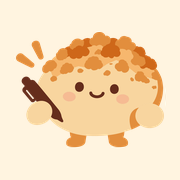
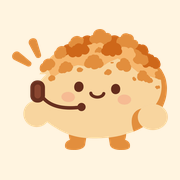
소보루CS 웹 로고·파비콘·공유 이미지도 헤드셋 소보루로
소보루CS 웹(biz·cs) 머리글, 로그인, 소개, 바닥글의 캐릭터와 파비콘, 홈 화면 아이콘,
공유 미리보기 이미지를 앱 아이콘과 같은 그림으로 바꿨다. 캐시 번호도 올렸다.

Claude-Session: https://claude.ai/code/session_012ig9tjXYdBwvSx3A68Tx61

diff --git a/platform_app/templates/base.html b/platform_app/templates/base.html
@@ -15,11 +15,11 @@
 <link rel="canonical" href="{{ request.base_url }}">
 {% if request.endpoint in ('home','login','decide') %}{% if VERIFY[site] %}<meta name="naver-site-verification" content="{{ VERIFY[site] }}">{% endif %}{% if GOOGLE_VERIFY[site] %}<meta name="google-site-verification" content="{{ GOOGLE_VERIFY[site] }}">{% endif %}{% endif %}
 <meta property="og:locale" content="ko_KR">
-{% block ogimage %}{% if site=='biz' %}<meta property="og:image" content="{{ url_for('static',filename='og-biz.png',_external=True) }}?v=3"><meta property="og:image:width" content="1200"><meta property="og:image:height" content="630">{% endif %}{% endblock %}
+{% block ogimage %}{% if site=='biz' %}<meta property="og:image" content="{{ url_for('static',filename='og-biz.png',_external=True) }}?v=4"><meta property="og:image:width" content="1200"><meta property="og:image:height" content="630">{% endif %}{% endblock %}
 <meta name="twitter:card" content="summary_large_image">
 <meta name="title" content="{{ self.title()|trim }}">
 {% block head %}{% endblock %}
-<link rel="icon" type="image/png" href="{{ url_for('static',filename='soboru-favicon.png') }}?v=2"><link rel="apple-touch-icon" href="{{ url_for('static',filename='soboru-touch.png') }}?v=2">
+<link rel="icon" type="image/png" href="{{ url_for('static',filename='soboru-favicon.png') }}?v=3"><link rel="apple-touch-icon" href="{{ url_for('static',filename='soboru-touch.png') }}?v=3">
 <link rel="stylesheet" href="https://cdn.jsdelivr.net/gh/orioncactus/pretendard@v1.3.9/dist/web/variable/pretendardvariable-dynamic-subset.min.css">
 <link rel="stylesheet" href="{{ url_for('static',filename='hanq.css') }}?v=88">
 </head>
@@ -29,7 +29,7 @@
 {% block main %}<main class="pg"><div class="{% block width %}wrap{% endblock %}">{% block body %}{% endblock %}</div></main>{% endblock %}
 {% import '_op.html' as op with context %}
 {% block foot %}{% set ffold=site!='me' and (co or is_ops) and request.endpoint!='pay.page' %}<footer class="foot2{{ ' ffold' if ffold }}">{% if ffold %}<details class="ftd"><summary>회사 정보</summary>{% endif %}<div class="wrap">
-<div class="ft-top">{% if site=='me' %}<span class="logo cs-logo"><img class="ch" src="{{ url_for('static',filename='soboru-char.png') }}?v=2" alt="" width="125" height="96"><b class="wm">소보루 CS</b></span>{% else %}<span class="logo biz">{{ blogo.soboru_logo() }}</span>{% endif %}<nav class="ft-links">{% if site=='me' %}<a href="{{ url_for('guide') }}">이용 안내</a><a class="strong" href="{{ url_for('privacy') }}">개인정보 처리방침</a><a href="{{ biz_url }}">기업 회원</a>{% else %}{% if has_ep('cms.blog') %}<a href="{{ url_for('cms.blog') }}">자료실</a><a href="{{ url_for('cms.stories') }}">고객 사례</a><a href="{{ url_for('cms.help_home') }}">도움말</a>{% endif %}{% if has_ep('gr.apply') %}<a href="{{ url_for('gr.apply') }}">파트너</a>{% endif %}{% if has_ep('sec.page') %}<a href="{{ url_for('sec.page') }}">보안</a>{% endif %}<a href="{{ url_for('pricing') }}">요금 안내</a><a href="{{ url_for('terms') }}">이용약관</a><a href="{{ url_for('refund_policy') }}">환불 정책</a><a class="strong" href="{{ site_url('me','/privacy') }}">개인정보 처리방침</a>{% endif %}</nav></div>
+<div class="ft-top">{% if site=='me' %}<span class="logo cs-logo"><img class="ch" src="{{ url_for('static',filename='soboru-char.png') }}?v=3" alt="" width="125" height="96"><b class="wm">소보루 CS</b></span>{% else %}<span class="logo biz">{{ blogo.soboru_logo() }}</span>{% endif %}<nav class="ft-links">{% if site=='me' %}<a href="{{ url_for('guide') }}">이용 안내</a><a class="strong" href="{{ url_for('privacy') }}">개인정보 처리방침</a><a href="{{ biz_url }}">기업 회원</a>{% else %}{% if has_ep('cms.blog') %}<a href="{{ url_for('cms.blog') }}">자료실</a><a href="{{ url_for('cms.stories') }}">고객 사례</a><a href="{{ url_for('cms.help_home') }}">도움말</a>{% endif %}{% if has_ep('gr.apply') %}<a href="{{ url_for('gr.apply') }}">파트너</a>{% endif %}{% if has_ep('sec.page') %}<a href="{{ url_for('sec.page') }}">보안</a>{% endif %}<a href="{{ url_for('pricing') }}">요금 안내</a><a href="{{ url_for('terms') }}">이용약관</a><a href="{{ url_for('refund_policy') }}">환불 정책</a><a class="strong" href="{{ site_url('me','/privacy') }}">개인정보 처리방침</a>{% endif %}</nav></div>
 {{ op.opinfo() }}
 <p class="copy">© 2026 SOBORU. All rights reserved.</p>{% if site!='me' %}<p class="tfnote">이 서비스에는 토스(비바리퍼블리카)가 제공한 Tossface가 적용되어 있습니다 · <a href="https://toss.im/tossface/copyright" target="_blank" rel="noopener">저작권 안내</a></p>{% endif %}</div>{% if ffold %}</details>{% endif %}</footer>{% endblock %}
 {% block script %}{% endblock %}

diff --git a/platform_app/templates/b_intro.html b/platform_app/templates/b_intro.html
@@ -77,7 +77,7 @@
 <div class="f-copy"><span class="in-eyebrow">사장님 앱</span><h2>가게 밖에서도<br>휴대폰으로 승인하세요</h2><p>새 요청이 오면 알림으로 알려 드리고, 앱에서 바로 승인할 수 있습니다. 홈페이지의 모든 기능을 앱에서도 쓸 수 있습니다.</p>
 <div class="in-cta">{% if app_links.android %}<a class="btn store" href="{{ app_links.android }}" rel="noopener">Android 앱 받기</a>{% else %}<span class="btn gray soon">Android 앱 · 곧 출시</span>{% endif %}{% if app_links.ios %}<a class="btn store" href="{{ app_links.ios }}" rel="noopener">iPhone 앱 받기</a>{% endif %}</div>
 </div>
-<div class="app-icon" aria-hidden="true"><img src="{{ url_for('static',filename='soboru-char.png') }}?v=2" alt="" width="125" height="96"><b>소보루 CS</b></div>
+<div class="app-icon" aria-hidden="true"><img src="{{ url_for('static',filename='soboru-char.png') }}?v=3" alt="" width="125" height="96"><b>소보루 CS</b></div>
 </div></section>
 
 <section class="in-end"><div class="wrap">

diff --git a/platform_app/templates/_c.html b/platform_app/templates/_c.html
@@ -2,7 +2,7 @@
 {% import '_i.html' as i %}
 {% macro bar(tab='') -%}
 <header class="gnb"><div class="wrap">
-<a class="logo cs-logo" href="{{ url_for('company_page',company_id=CS.id) if CS else url_for('home') }}"><img class="ch" src="{{ url_for('static',filename='soboru-char.png') }}?v=2" alt="" width="125" height="96"><b class="wm">소보루 CS</b></a>
+<a class="logo cs-logo" href="{{ url_for('company_page',company_id=CS.id) if CS else url_for('home') }}"><img class="ch" src="{{ url_for('static',filename='soboru-char.png') }}?v=3" alt="" width="125" height="96"><b class="wm">소보루 CS</b></a>
 <nav>
 <a href="{{ url_for('mine') }}" class="{{ 'on' if tab=='mine' }}">내 접수{% if n_mine %}<span class="cnt">{{ n_mine }}</span>{% endif %}</a>
 <a href="{{ url_for('guide') }}" class="{{ 'on' if tab=='guide' }}">이용 안내</a>

diff --git a/platform_app/templates/b_record.html b/platform_app/templates/b_record.html
@@ -1,5 +1,5 @@
 <!doctype html><html lang="ko"><head><meta charset="utf-8"><meta name="viewport" content="width=device-width,initial-scale=1">
-<meta name="robots" content="noindex"><link rel="icon" type="image/png" href="{{ url_for('static',filename='soboru-favicon.png') }}?v=2"><title>요청 처리 기록 {{ c.no }}</title>
+<meta name="robots" content="noindex"><link rel="icon" type="image/png" href="{{ url_for('static',filename='soboru-favicon.png') }}?v=3"><title>요청 처리 기록 {{ c.no }}</title>
 <style>
 :root{--fg:#191f28;--fg2:#4e5968;--fg3:#8b95a1;--line:#e5e8eb;--acc:#f89b00}
 *{box-sizing:border-box}body{margin:0;background:#f2f4f6;color:var(--fg);font:14px/1.6 -apple-system,BlinkMacSystemFont,"Pretendard","Apple SD Gothic Neo","Noto Sans KR",sans-serif;word-break:keep-all;overflow-wrap:anywhere}

diff --git a/platform_app/templates/c_company.html b/platform_app/templates/c_company.html
@@ -4,7 +4,7 @@
 {% block bar %}{% endblock %}
 {% block main %}
 <main class="cs cs3">
-<header class="cs-top"><div class="cs-in"><span class="cs-brand"><img class="ch" src="{{ url_for('static',filename='soboru-char.png') }}?v=2" alt="" width="125" height="96"><b class="wm">소보루 CS</b></span>
+<header class="cs-top"><div class="cs-in"><span class="cs-brand"><img class="ch" src="{{ url_for('static',filename='soboru-char.png') }}?v=3" alt="" width="125" height="96"><b class="wm">소보루 CS</b></span>
 <a href="{{ url_for('mine') }}" class="cs-mine">내 접수{% if n_mine %}<span class="cnt">{{ n_mine }}</span>{% endif %}</a></div></header>
 <div class="cs3-top"><div class="cs-in">
 <section class="cs-hero">

diff --git a/platform_app/templates/b_login.html b/platform_app/templates/b_login.html
@@ -8,7 +8,7 @@
 <h1>고객 요청,<br>승인 한 번으로<br>끝냅니다</h1>
 <p>요약과 처리 방법이 정리된 요청을 확인하고<br>승인만 누르면 답변과 조치까지 처리됩니다.</p>
 <div class="stage" aria-hidden="true">
-<img class="mascot" src="{{ url_for('static',filename='soboru-char.png') }}?v=2" alt="" width="125" height="96">
+<img class="mascot" src="{{ url_for('static',filename='soboru-char.png') }}?v=3" alt="" width="125" height="96">
 <div class="ok"><i>✓</i>배송 조회 · 자동으로 답변했습니다</div>
 <div class="mock">
 <div class="m-top"><span>{{ i.cat_icon('제품 불량',20) }} 제품 불량</span><span class="pill">새 요청</span></div>

diff --git a/platform_app/templates/_b.html b/platform_app/templates/_b.html
@@ -1,6 +1,6 @@
 {# 기업 서비스 공용: 상단 메뉴, 지표, 승인 카드 #}
 {% import '_i.html' as i %}
-{% macro soboru_logo() -%}<img class="ch" src="{{ url_for('static',filename='soboru-char.png') }}?v=2" alt="" width="125" height="96"><span class="wm">소보루 CS</span>{%- endmacro %}
+{% macro soboru_logo() -%}<img class="ch" src="{{ url_for('static',filename='soboru-char.png') }}?v=3" alt="" width="125" height="96"><span class="wm">소보루 CS</span>{%- endmacro %}
 {% macro bar(tab) -%}
 <header class="gnb"><div class="wrap">
 <a class="logo biz" href="{{ url_for('decide') }}">{{ soboru_logo() }}</a>
